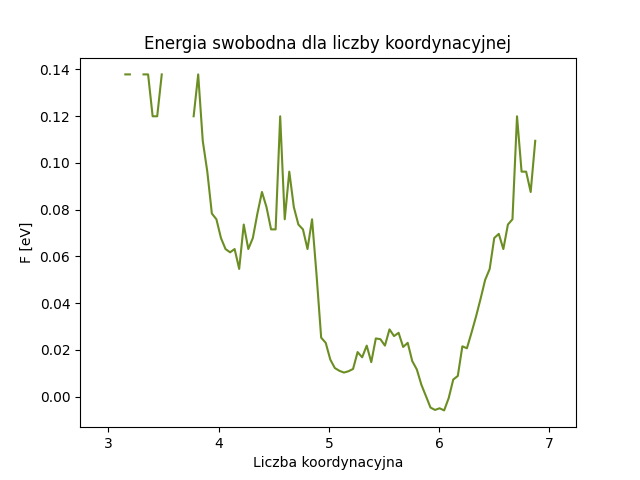
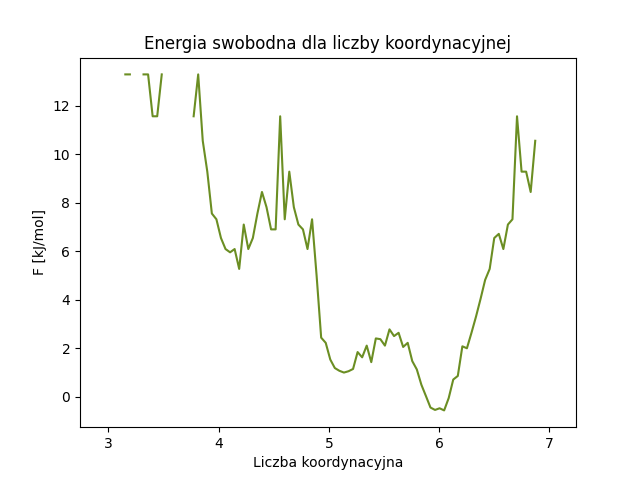
Zmiana jednostek

diff --git a/plot_histogram.py b/plot_histogram.py
@@ -9,13 +9,13 @@ plt.xlabel("Odległość pomiędzy Na-Cl [nm]")
 plt.title("Histogram dla odległości Na-Cl")
 
 temp = 300  # K
-#k = 0.0083144626  # kJ/(mol*K)
-k = 8.6173333e-05  # eV/K
+k = 0.0083144626  # kJ/(mol*K)
+# k = 8.6173333e-05  # eV/K
 
 N = hist[0]
 bins = hist[1]
 
-F = - np.log(N) * k * temp
+F = -np.log(N) * k * temp
 
 dist_prime = []
 for i in range(len(bins) - 1):
@@ -24,7 +24,7 @@ for i in range(len(bins) - 1):
 plt.figure()
 plt.plot(dist_prime, F, color="olivedrab")
 plt.xlabel("Odległość pomiędzy Na-Cl [nm]")
-plt.ylabel("F [eV]")
+plt.ylabel("F [kJ/mol]")
 plt.title("Energia swobodna dla odległości Na-Cl")
 
 plt.show()

diff --git a/plot_histogram_cord.py b/plot_histogram_cord.py
@@ -9,13 +9,13 @@ plt.xlabel("Liczba koordynacyjna")
 plt.title("Histogram dla liczby koordynacyjnej")
 
 temp = 300  # K
-#k = 0.0083144626  # kJ/(mol*K)
-k = 8.6173333e-05  # eV/K
+k = 0.0083144626  # kJ/(mol*K)
+# k = 8.6173333e-05  # eV/K
 
 N = hist[0]
 bins = hist[1]
 
-F = - np.log(N) * k * temp
+F = -np.log(N) * k * temp
 
 dist_prime = []
 for i in range(len(bins) - 1):
@@ -24,7 +24,7 @@ for i in range(len(bins) - 1):
 plt.figure()
 plt.plot(dist_prime, F, color="olivedrab")
 plt.xlabel("Liczba koordynacyjna")
-plt.ylabel("F [eV]")
+plt.ylabel("F [kJ/mol]")
 plt.title("Energia swobodna dla liczby koordynacyjnej")
 
 plt.show()
